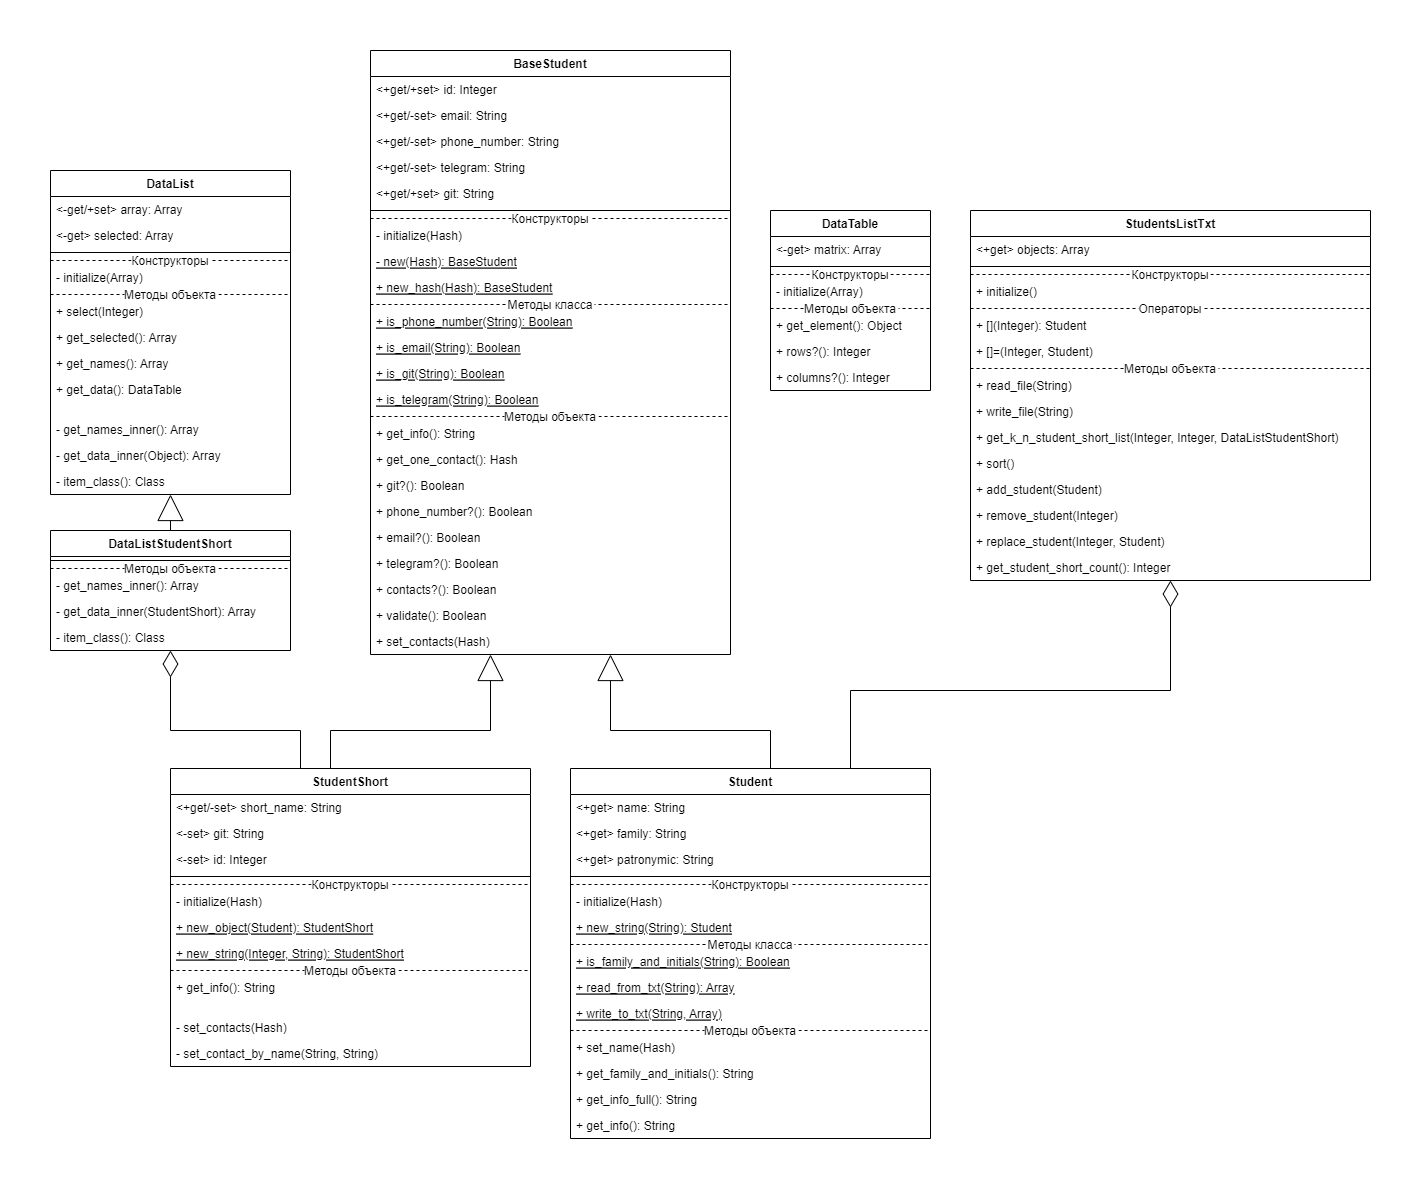
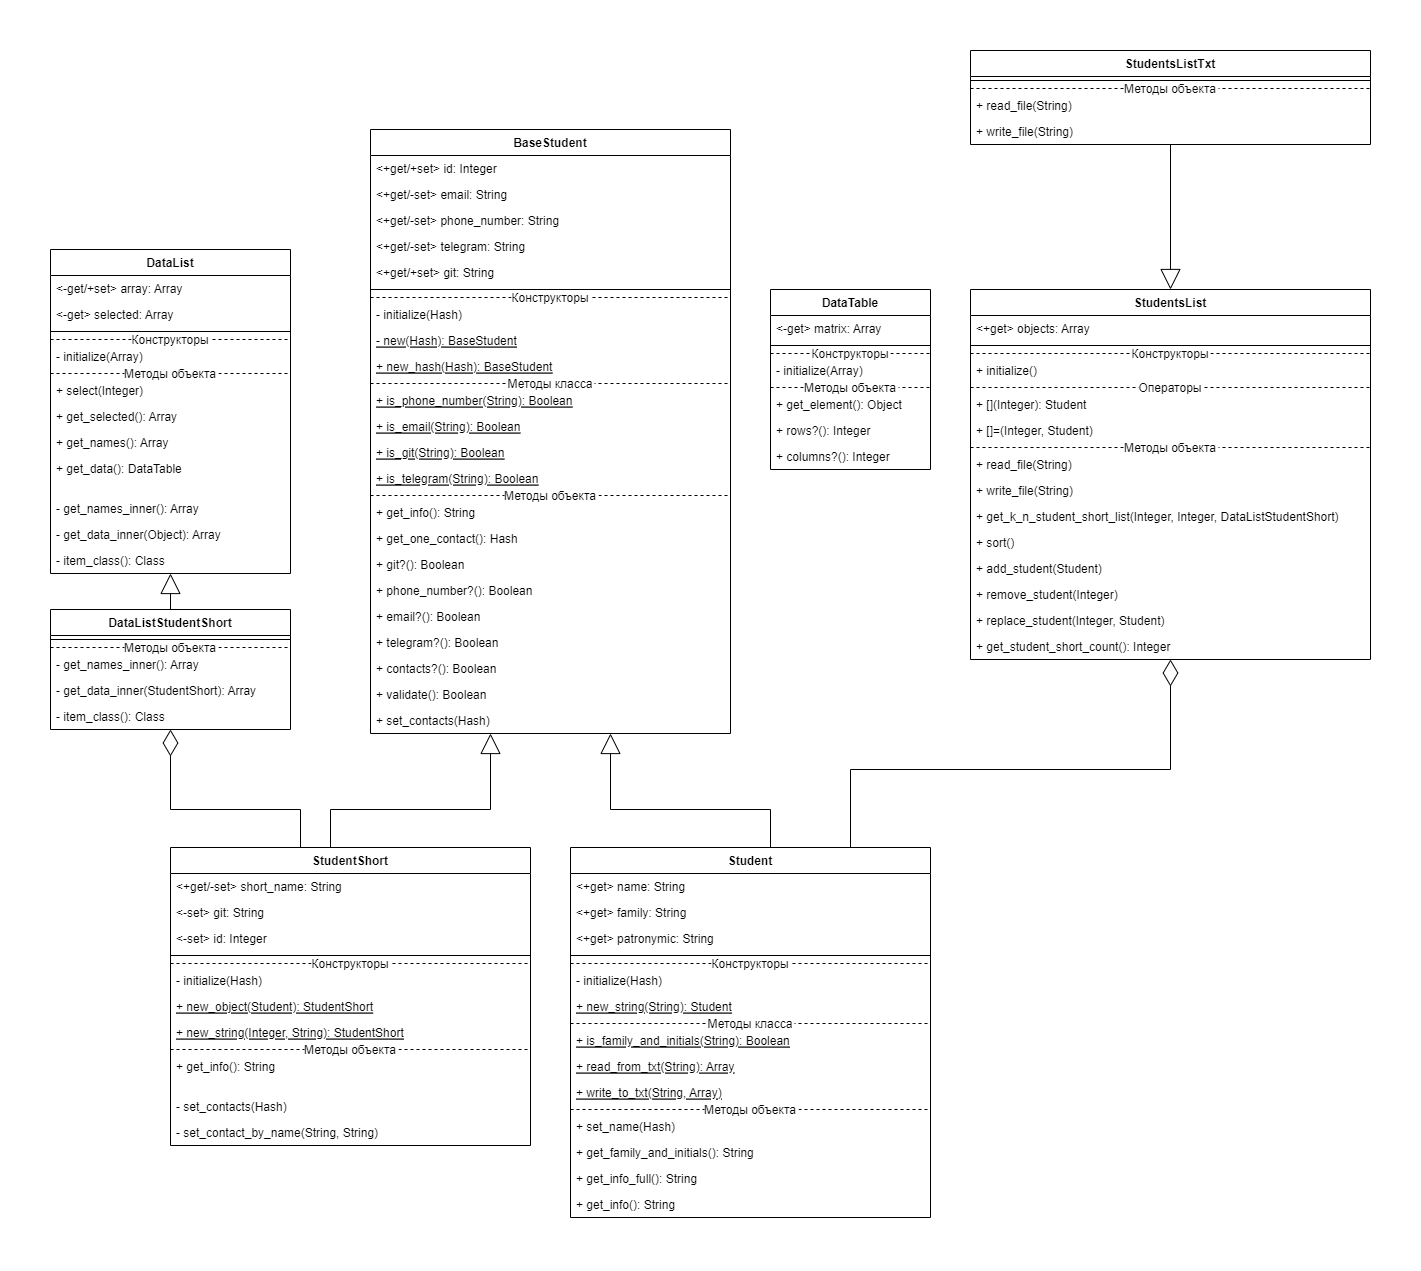
Лаб.2 Здч.4-4 Выделен суперкласс "StudentsList"

diff --git a/lab2/students_list_txt.rb b/lab2/students_list_txt.rb
@@ -1,12 +1,6 @@
-require_relative "student.rb"
-require_relative "data_list_student_short.rb"
+require_relative "students_list.rb"
 
-class StudentsListTxt
-	attr_reader :objects
-	
-	def initialize()
-		@objects = []
-	end
+class StudentsListTxt < StudentsList
 
 	def read_file(path)
 		File.open(path, "r") do |file|
@@ -18,60 +12,6 @@ class StudentsListTxt
 		File.open(path, "w") do |file|
 			self.objects.each { |obj| file.write(obj.get_info_full+"\n") }
 		end
-	end
-	
-	def [](id)
-		self.objects.each { |obj|
-			if obj.id == id then return obj end
-		}
-		return nil
-	end
-	
-	def []=(id, object)
-		index = 0
-		self.objects.each { |obj|
-			if obj.id == id then self.objects[index] = object end
-			index += 1
-		}
-	end
-	
-	def get_k_n_student_short_list(k, n, input = nil)
-		output = []
-		(0..n-1).each { |index|
-			obj = self.objects[(k*n)+index]
-			if obj != nil
-				output.push(StudentShort.new_object(obj))
-			end
-		}
-		if input == nil
-			return DataListStudentShort.new(output)
-		else
-			input.array = output
-		end
-	end
-	
-	def sort()
-		self.objects.sort_by!(&:get_family_and_initials)
-	end
-	
-	def add_student(object)
-		object.id = self.objects.max_by(&:id).id+1
-		self.objects.push(object)
-	end
-	
-	def remove_student(id)
-		self.objects.delete(self.objects.find { |obj|
-			obj.id == id
-		})
-	end
-	
-	def replace_student(id, object)
-		object.id = id
-		self[id] = object
-	end
-	
-	def get_student_short_count()
-		return self.objects.length
 	end
 	
 end

diff --git a/lab2/students_list.rb b/lab2/students_list.rb
@@ -1,0 +1,73 @@
+require_relative "student.rb"
+require_relative "student_short.rb"
+require_relative "data_list_student_short.rb"
+
+class StudentsList
+	attr_reader :objects
+	
+	def initialize()
+		@objects = []
+	end
+	
+	def read_file(path)
+		
+	end
+	
+	def write_file(path)
+		
+	end
+	
+	def [](id)
+		self.objects.each { |obj|
+			if obj.id == id then return obj end
+		}
+		return nil
+	end
+	
+	def []=(id, object)
+		index = 0
+		self.objects.each { |obj|
+			if obj.id == id then self.objects[index] = object end
+			index += 1
+		}
+	end
+	
+	def get_k_n_student_short_list(k, n, input = nil)
+		output = []
+		(0..n-1).each { |index|
+			obj = self.objects[(k*n)+index]
+			if obj != nil
+				output.push(StudentShort.new_object(obj))
+			end
+		}
+		if input == nil
+			return DataListStudentShort.new(output)
+		else
+			input.array = output
+		end
+	end
+	
+	def sort()
+		self.objects.sort_by!(&:get_family_and_initials)
+	end
+	
+	def add_student(object)
+		object.id = self.objects.max_by(&:id).id+1
+		self.objects.push(object)
+	end
+	
+	def remove_student(id)
+		self.objects.delete(self.objects.find { |obj|
+			obj.id == id
+		})
+	end
+	
+	def replace_student(id, object)
+		object.id = id
+		self[id] = object
+	end
+	
+	def get_student_short_count()
+		return self.objects.length
+	end
+end
